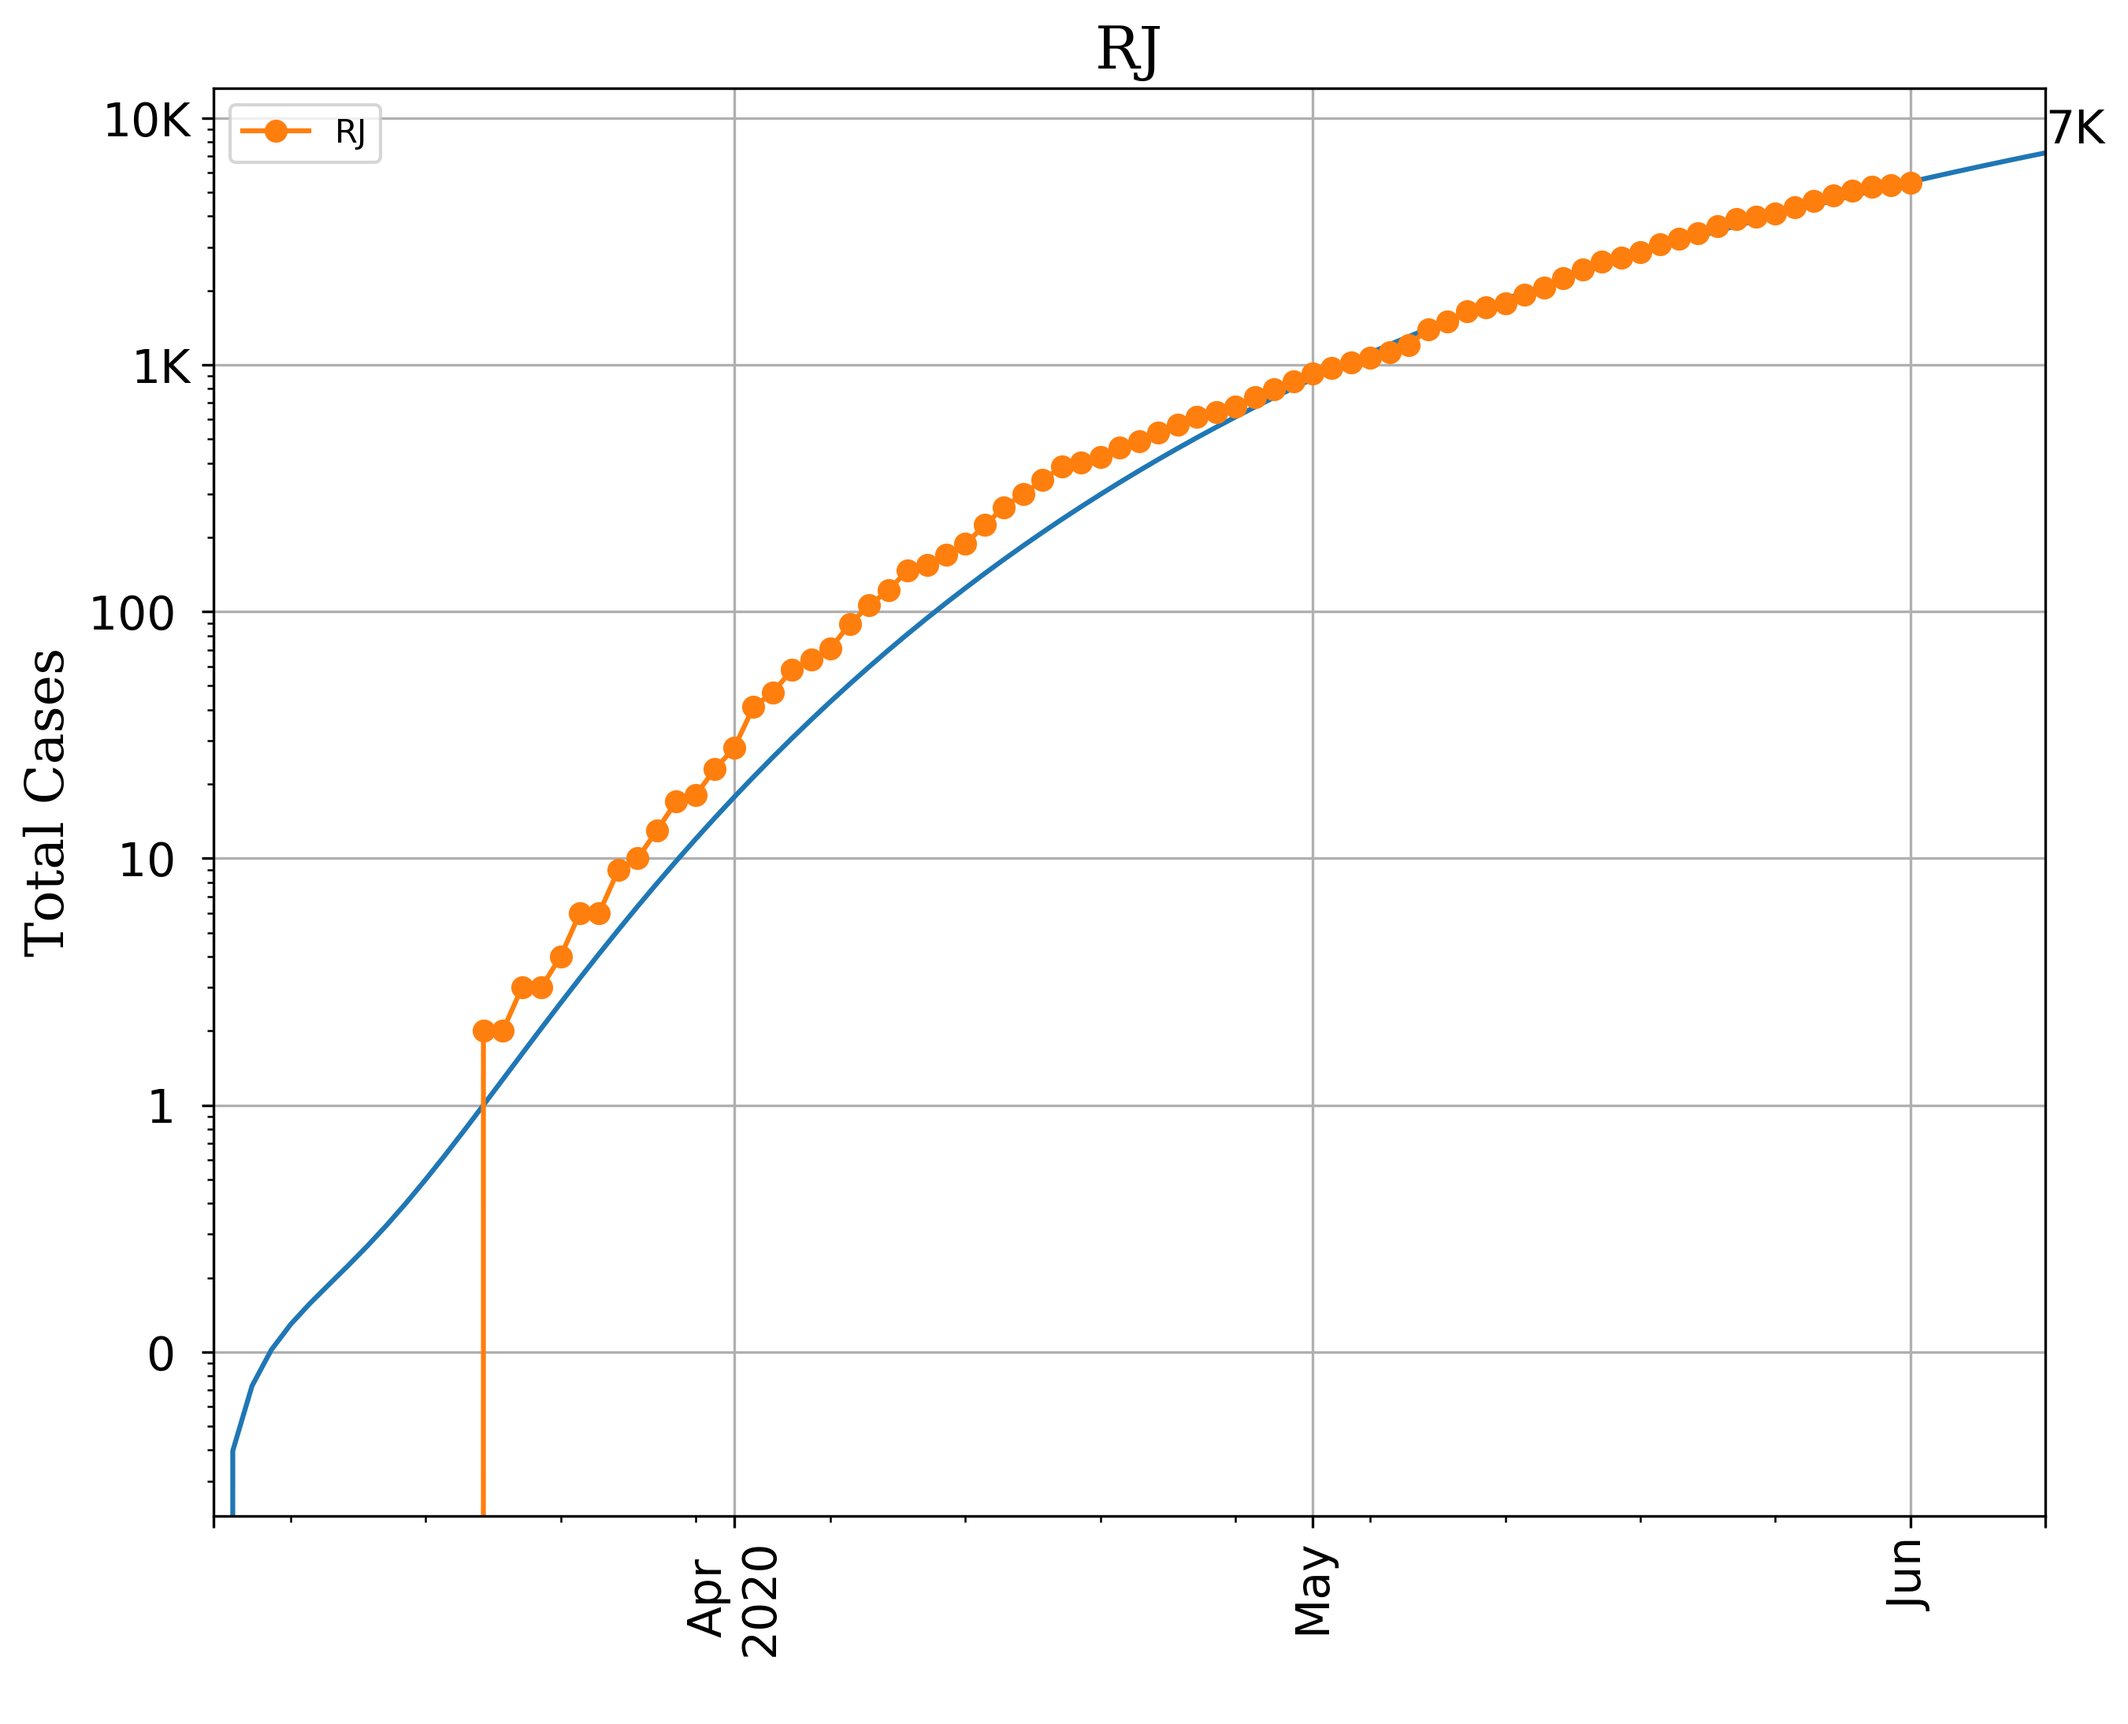
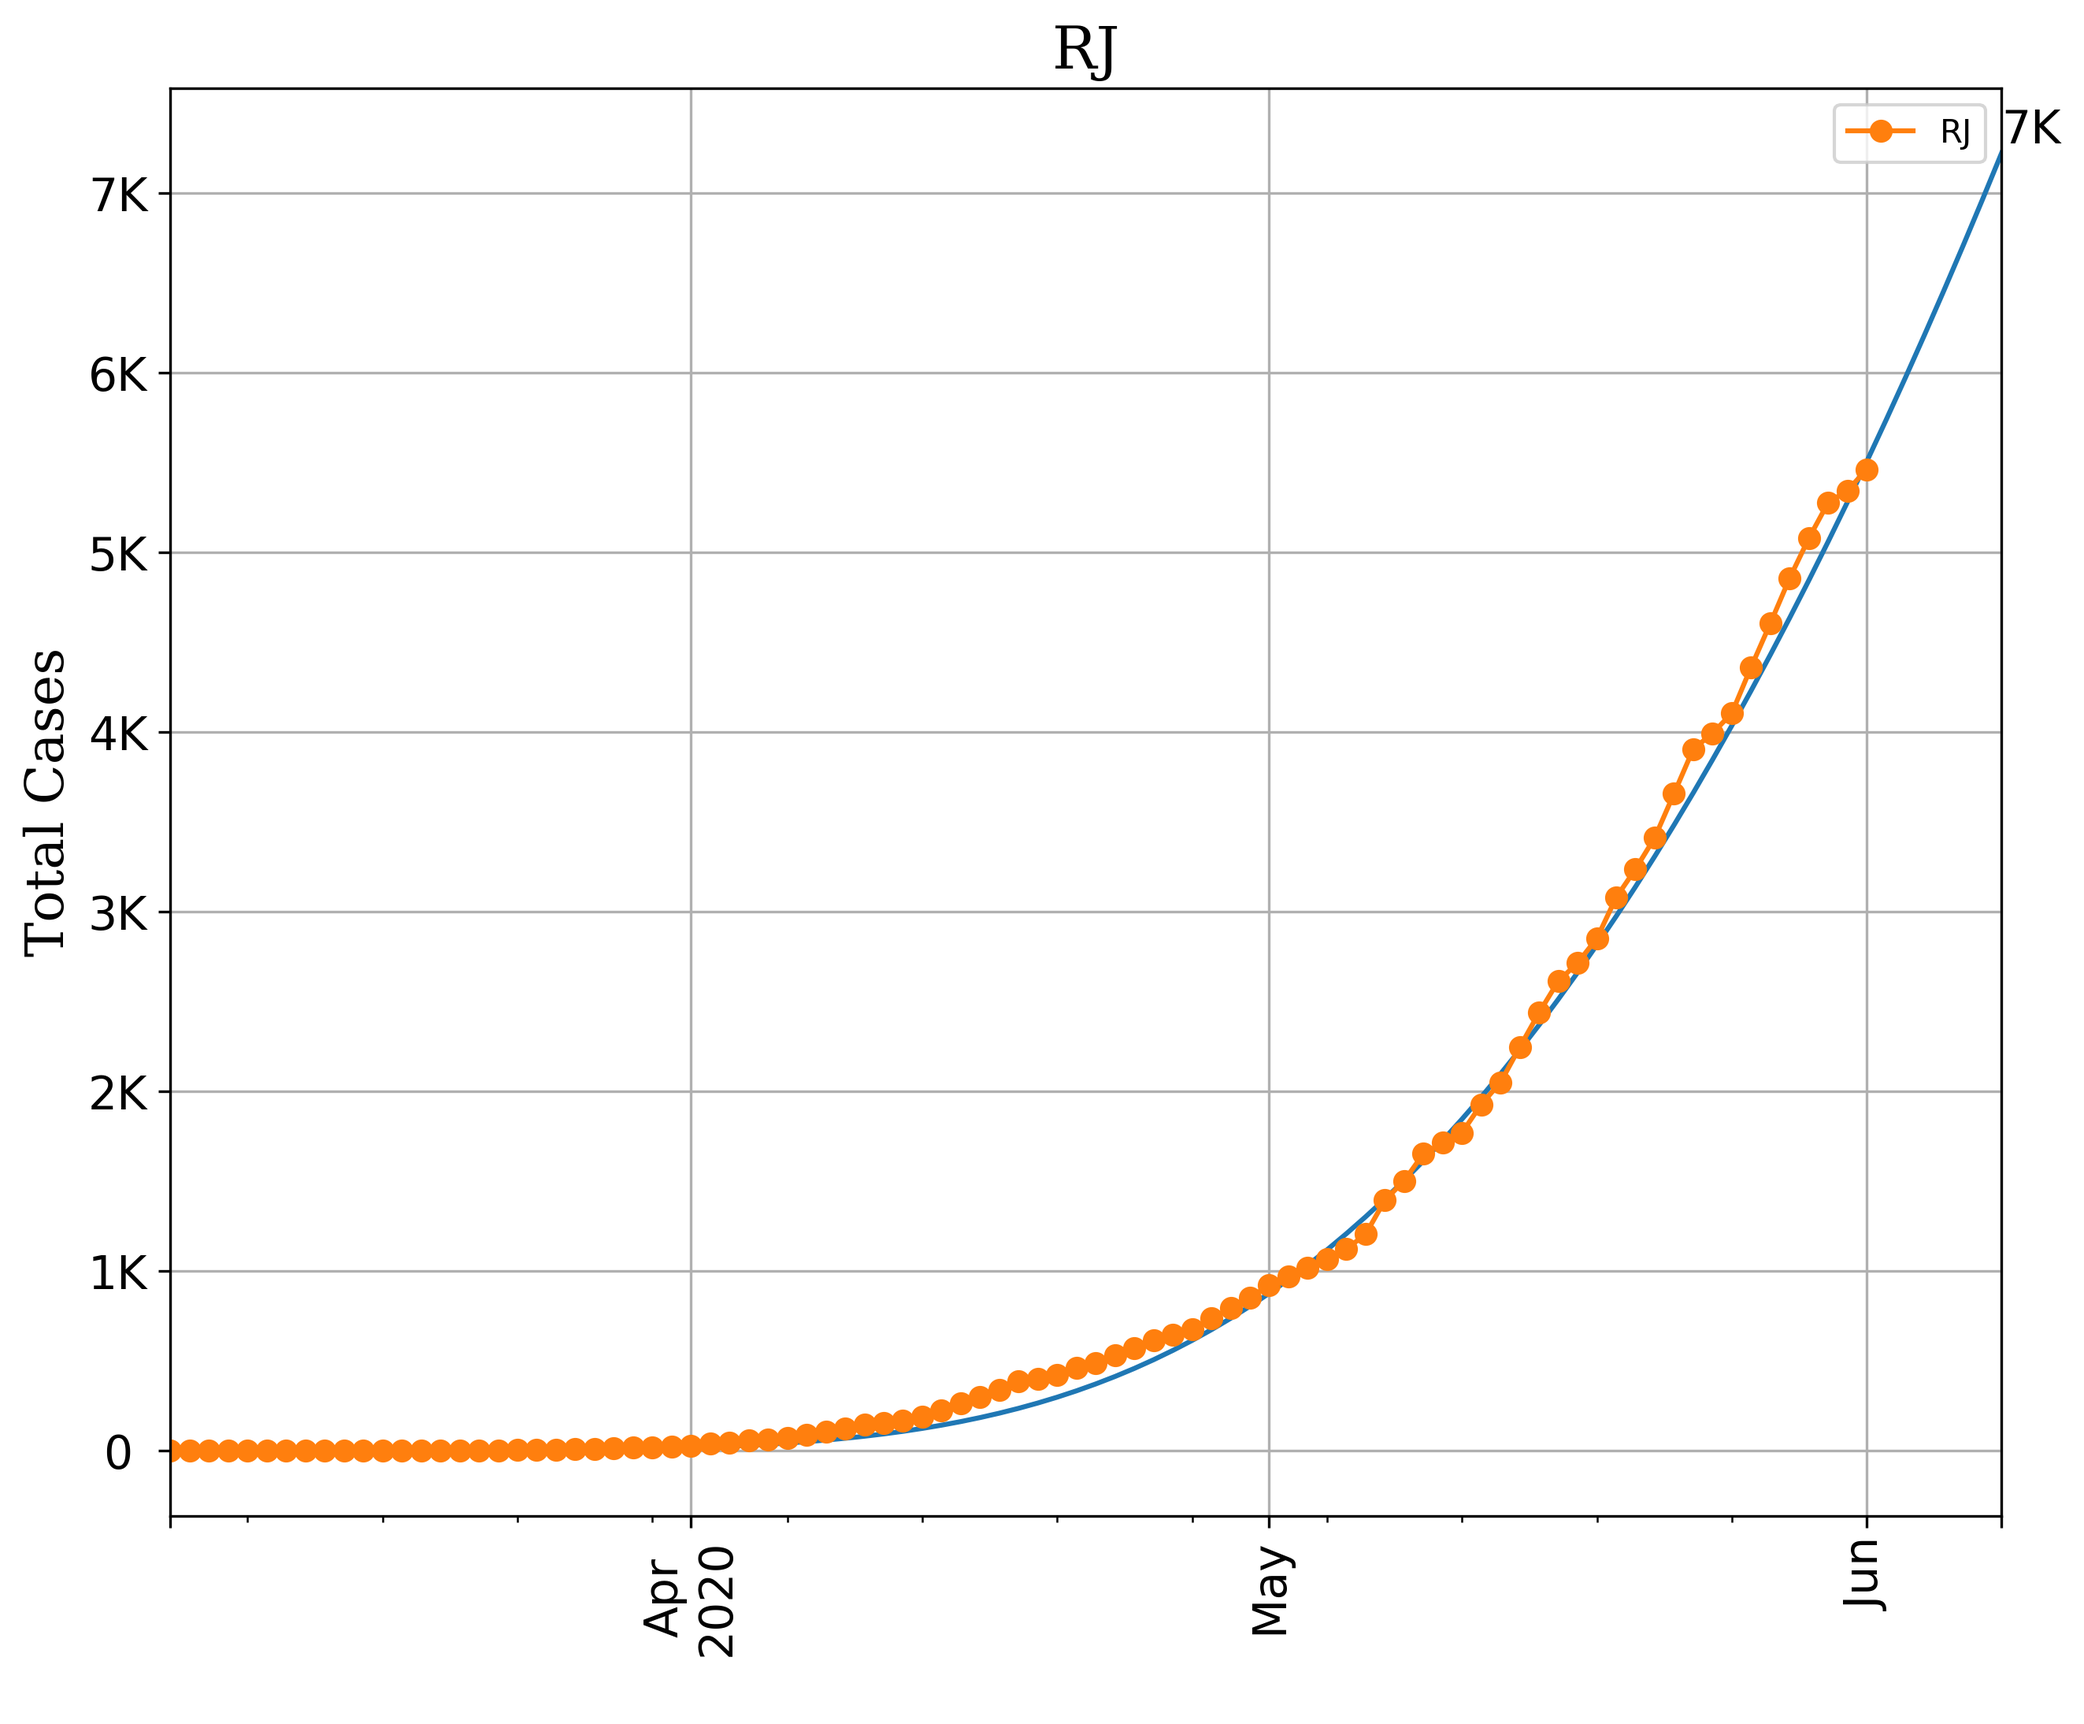
update

diff --git a/script/totalcases_plot.py b/script/totalcases_plot.py
@@ -276,7 +276,7 @@ for i in onlyfiles:
                           grid = True,rot = 90,figsize= (10,8))
     
     figure2 = df_plot2.plot(ax = ax,kind = "line", x = "datetime", y = estado[9:-4],
-                             style = 'o-',grid = True,rot = 90,figsize= (10,8), logy = True)
+                             style = 'o-',grid = True,rot = 90,figsize= (10,8))
       
     figure.yaxis.set_major_formatter(FuncFormatter(format_func))
     
